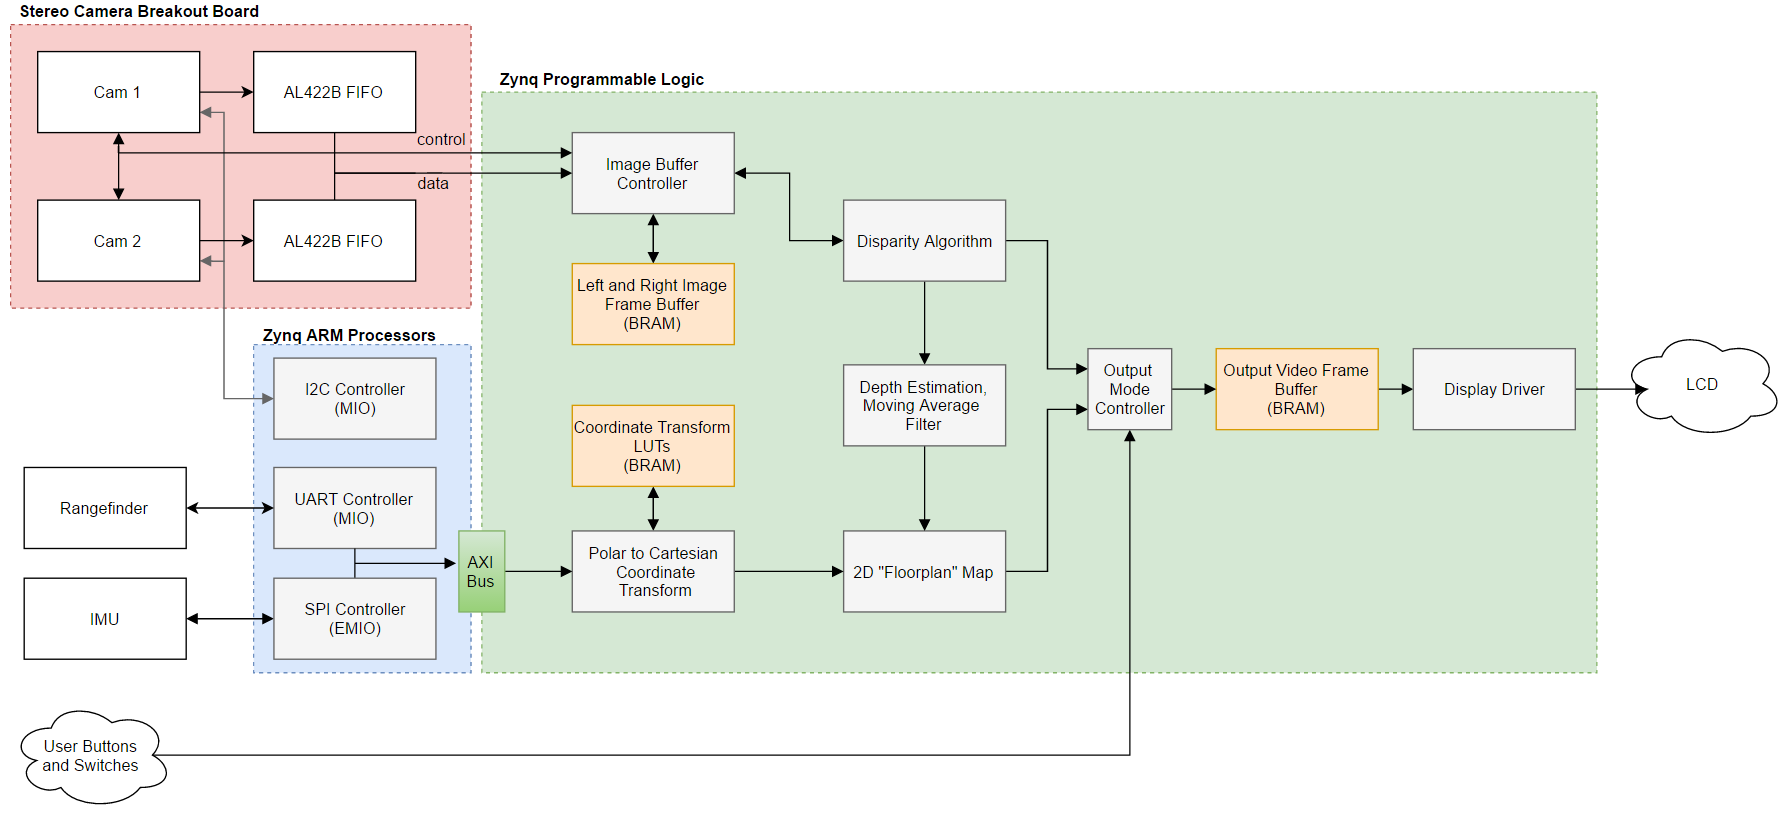
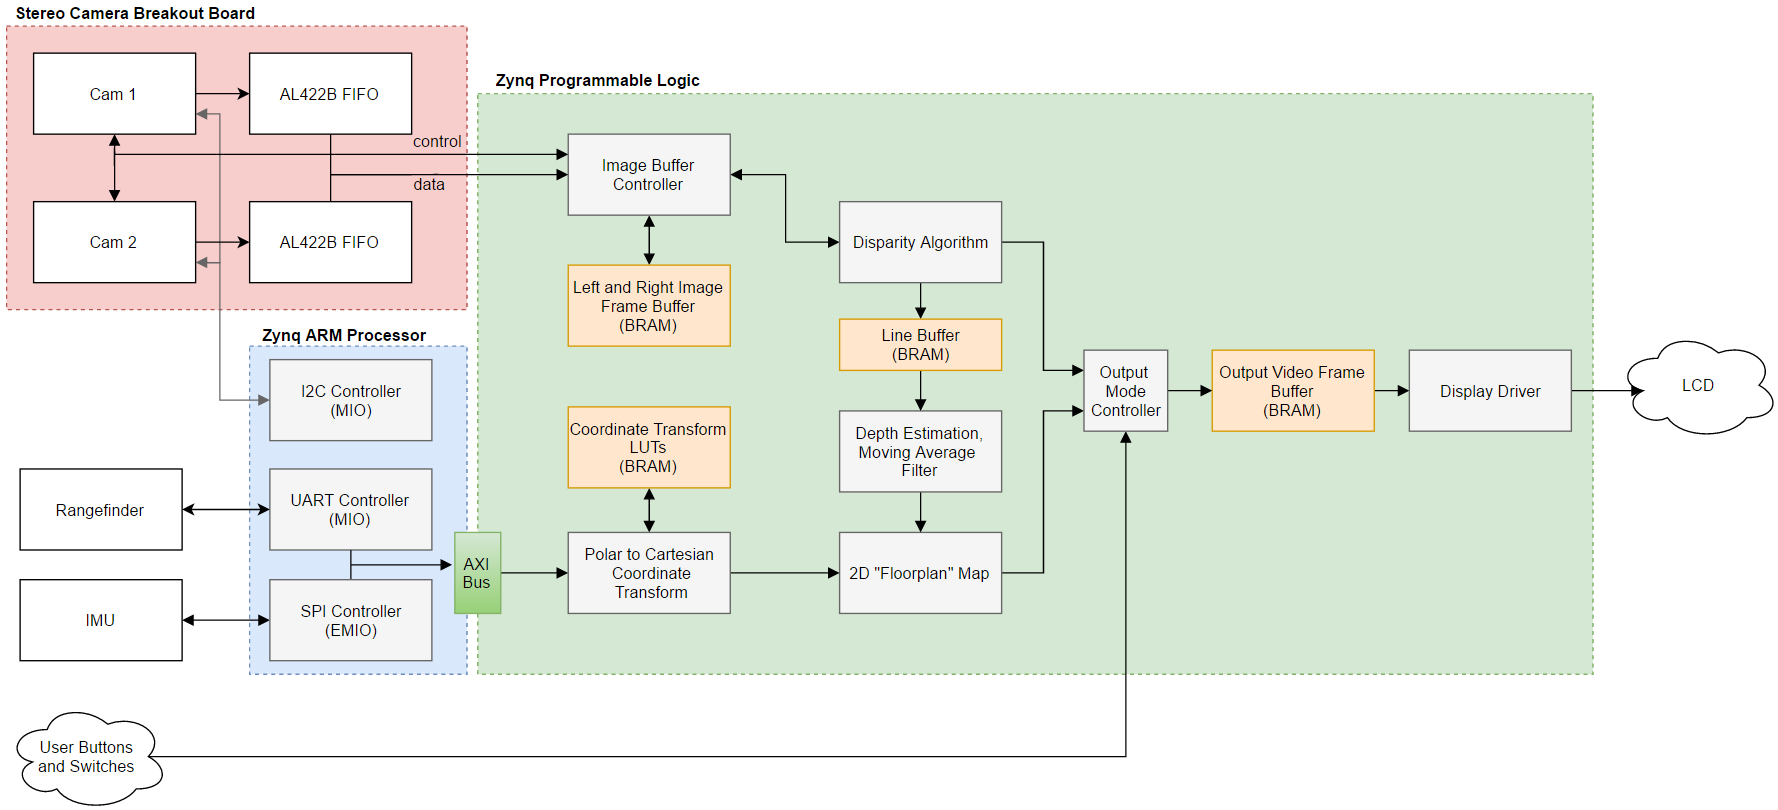
lol @ USB-OTG

diff --git a/report/systemDesign.tex b/report/systemDesign.tex
@@ -1,3 +1,5 @@
+Overall, the proposed system has been reduced to the functional blocks shown in Figure \ref{systemBD} below. On the input side of the system, the two stereo cameras are physically connect to two video memory buffers, and the camera controls and video memory buffer data are accessed through programmable logic on the Zynq processor.  Since the rangefinder and IMU modules each communicate with UART and SPI interfaces, respectively, each are connected directly to the Zynq's dual-core ARM processor. Both sensors may then be communicated with using Xilinx's built-in ARM peripheral drivers, reducing overall implementation time. Note that an I$^2$C controller is also included as a peripheral for the ARM processor, allowing for communication with each camera's control registers. 
+\par
 \begin{figure}[H] 
 	\centerline{
 	\includegraphics[width=1.25\linewidth]{full_blockdiag.png}
@@ -5,3 +7,9 @@
 	\caption{System Block Diagram}
 	\label{systemBD}
 \end{figure}
+\par
+In terms of stereo camera data processing, the first stage of programmable logic consists of a dual image buffer controller used for triggering image captures and reading image data into local memory on the ZedBoard. A disparity module then reads in image data from local memory, and calculates the relative offset between objects contained in the stereo image pair. A portion of this data is then stored in local memory for correlation with data from the 2D scanning laser rangefinder. Depending on the position of the ZedBoard's user input switches, the output from the disparity algorithm is also passed to a video frame buffer and displayed via VGA. 
+\par
+In order to correlate disparity data with the 2D depth information from the scanning laser rangefinder, several horizontal lines of pixel data from the disparity algorithm are averaged together. This single line of depth information can be compared to the single line of depth information from the scanning laser rangefinder. However, due to differences in the field of view from each sensor, the depth information is passed through a moving average filter before being correlated with rangefinder data. 
+\par
+Data from the scanning laser rangefinder and IMU modules is pre-processed in programmable software, allowing for the estimation of sensor rotation relative to the IMU's compass heading.  A custom AXI peripheral bus is then used to pass data from the programmable software to the programmable hardware. At this stage, a pair of lookup tables are used to convert the rangefinder data from Polar to Cartesian, and the modified data is correlated with depth estimation data from the disparity algorithm. Depending on the status of the ZedBoard's user switches, the 2D "floorplan" map created using the combined sensor data is then passed to the output video buffer for external display. 
